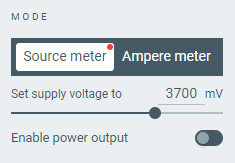
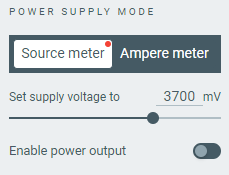
v4.0.0 release test updates

diff --git a/src/components/SidePanel/Instructions.tsx b/src/components/SidePanel/Instructions.tsx
@@ -14,7 +14,7 @@ import {
 
 const urls = {
     ppk2UserGuide:
-        'https://infocenter.nordicsemi.com/topic/ug_ppk2/UG/ppk/PPK_user_guide_Intro.html',
+        'https://docs.nordicsemi.com/bundle/ug_ppk2/page/UG/ppk/PPK_user_guide_Intro.html',
     purchase:
         'https://www.nordicsemi.com/About-us/BuyOnline?search_token=nRF-PPK2',
 };
@@ -22,7 +22,7 @@ const urls = {
 export default () => (
     <Group heading="Instructions">
         <p>
-            The Power Profiler Kit (PPK) is an affordable, flexible tool that
+            The Power Profiler Kit II (PPK2) is an affordable, flexible tool that
             measures real-time power consumption of your designs.
         </p>
         <p>

diff --git a/doc/docs/overview.md b/doc/docs/overview.md
@@ -16,7 +16,13 @@ You can access the following options by selecting the arrow under the device nam
 
 ## Device panel sections
 
-Before you select a device, this section lets you only **Load** a `.ppk2` or a `.ppk` power profiler file.
+Before you select a device, you can only load a power profiler file, open a link to an online purchase page, check documentation, or configure temporary disk data.
+
+More options become available after selecting a device. Some options are specific to the chosen sampling mode.
+
+### Load
+
+The **Load** button lets you open a `.ppk2` or a `.ppk` power profiler file.
 
 !!! note "Note"
       Loading a `.ppk` file will automatically convert it to a `.ppk2` file.
@@ -24,20 +30,18 @@ Before you select a device, this section lets you only **Load** a `.ppk2` or a `
 
       Support for converting `.ppk` files will be removed in the future.
 
-More options become available after selecting a device. Some options are specific to the chosen sampling mode.
+### Temp disk
 
-### Session data
+![Temp disk data controls](./screenshots/ppk2_temp_disk_data.png "Temp disk data controls")
 
-![Session data controls](./screenshots/ppk2_advanced_session_data.png "Session data controls")
-
-These options only appear before selecting device and for the **Data logger** sampling mode.
+These options only appear before selecting the device and for the **Data logger** sampling mode.
 
 Here you can set the root directory where the sampling file will be saved by default and define how much hard drive space you want to keep free when you start sampling.
 The sampling will automatically stop when the hard drive has less than the defined amount.
 
-### Mode
+### Power supply mode
 
-![Mode options in the Device panel](./screenshots/ppk2_device_panel_mode.png "Mode options in the Device panel")
+![Power supply mode options in the Device panel](./screenshots/ppk2_device_panel_mode.png "Power supply mode options in the Device panel")
 
 Here you can select one of the power supply modes for the PPK2, depending on your hardware setup:
 
@@ -52,10 +56,9 @@ Both modes let you **Enable power output** on or off, which turns DUT on or off.
 
 Here you can select the sampling parameters. The parameters are different depending on the sampling mode.
 
-This is also where you can **Start** sampling and select the amount of samples per second that will be recorded.
-The slider lets you select different values up to 100 000 samples per second (100 kHz).
+This is also where you can **Start** sampling.
 
-![Start and sampling value slider](./screenshots/ppk2_device_panel_sampling_start.PNG "Start and sampling value slider")
+![Start button](./screenshots/ppk2_device_panel_sampling_start.PNG "Start button")
 
 After sampling starts, the **Start** button changes to **Stop**.
 Before you can start sampling again, [**Save/Export**](#other-options) the session data or take a [**Screenshot**](#other-options)
@@ -65,20 +68,23 @@ If you don't, you will be prompted about saving any unsaved sampling data before
 
 ![Sampling parameters for Data logger](./screenshots/ppk2_device_panel_sampling_live.png "Sampling parameters for Data logger")
 
-When sampling in the **Data logger** mode, the sampling lasts by default from the moment in which you click **Start** to the moment the **Auto stop sampling** sample time value is reached.
+When sampling in the **Data logger** mode, you can select the amount of samples per second that will be recorded.
+The slider lets you select different values up to 100 000 samples per second (100 kHz).
+You can also specify how long the sampling is supposed to last.
+
+After pressing **Start**, the sampling lasts to the moment the sampling time value is reached.
 If you disable **Auto stop sampling**, the sampling will last until you **Stop** it.
 
 Based on the chosen options, the Power Profiler application estimates the disk space usage.
 
-#### Real time parameters
+#### Scope parameters
 
-![Sampling parameters for Real time](./screenshots/ppk2_device_panel_sampling_trigger.png "Sampling parameters for Real time")
+![Sampling parameters for Scope](./screenshots/ppk2_device_panel_sampling_trigger.png "Sampling parameters for Scope")
 
-When sampling in the **Real time** mode, the sampling starts only when the specified **Length** and **Level** values are reached.
-
+When sampling in the **Scope** mode, the sampling starts only when the specified **Length** and **Level** values are reached.
 The sampling always happens at 100 000 samples per second (100 kHz).
 
-The following table lists all available Real time parameters.
+The following table lists all available Scope parameters.
 
 | Option                            | Description                                                                                          |
 |-----------------------------------|------------------------------------------------------------------------------------------------------|
@@ -96,6 +102,7 @@ The following table lists the available display options.
 | **Timestamps**                    | Show or hide the timestamps at the bottom of the sampling chart.                                     |
 | **Relative** and **Absolute**     | Select how the time value of the **Timestamps** is to be displayed: relative to the start of the sampling or using machine time (UTC, adjusted per time zone of the machine settings).<br/><br/>If you [**Load**](#device-panel-sections) an old `.ppk` file, the timestamp value will not be shown because of the lack of metadata.         |
 | **Digital channels**              | Show or hide the [digital channels](#digital-channels) under the sampling chart.                     |
+| **Show Minimap**                  | Toggle to show or hide the navigable minimap under the **Data logger**'s chart. You can use the minimap to inspect the logged sampling results. |
 
 ### Other options
 
@@ -103,23 +110,50 @@ The following options are only available when you log sampling data.
 
 | Option                            | Description                                                                                          |
 |-----------------------------------|------------------------------------------------------------------------------------------------------|
-| **Show Minimap**                  | Toggle to show or hide the navigable minimap under the **Data logger**'s chart. You can use the minimap to inspect the logged sampling results. |
 | **Save/Export**                   | Available only after sampling is stopped. Saves the results of the data sampling to a `.ppk2` file, which you can [**Load**](#device-panel-sections) in a new session of nRF Connect Power Profiler. |
-| **Screenshot**                    | Saves the current data from either the **Data logger** or the **Real time** view as a PNG image.                                          |
+| **Screenshot**                    | Saves the current data from either the **Data logger** or the **Scope** view as a PNG image.                                          |
+
+### Advanced configuration
+
+The advanced configuration panel gives you access to filter tuning and lets you adjust gains for all individual ranges.
+
+#### Gains
+
+![Advanced configuration for gains](./screenshots/ppk2_advanced_gains.PNG "Advanced controls for gains")
+
+If any of the ranges (see [Measurement resolution](https://docs.nordicsemi.com/bundle/ug_ppk2/page/UG/ppk/ppk_measure_resolution.html#ppk_measure_resolution__table_b3l_3ty_bdb)) has an offset, use these configuration options to add a positive or negative gain to the calculated measurement values.
+
+#### Spike filter
+
+![Advanced configuration for spike filter](./screenshots/ppk2_advanced_spike.PNG "Advanced controls for spike filter")
+
+Whenever a dynamic range switching occurs, induced inductance may cause the first samples to be higher than the actual value.
+
+Use the sliders to set the following:
+
+- Samples to smooth - The number of samples after a dynamic range switch to apply the filer.
+- Coefficient for range 1–4 - The magnitude of the spike filter for range 1–4. The higher the value, the more filtering will be applied.
+- Coefficient for range 5 - The magnitude of the spike filter for range 5. The higher the value, the more filtering will be applied.
+
+#### Voltage limit
+
+![Advanced configuration for voltage limit](./screenshots/ppk2_advanced_voltage.PNG "Advanced controls for voltage limit")
+
+Use this control to set the voltage limit for the measurement.
 
 ## Sampling tabs
 
-nRF Connect Power Profiler comes with two sampling modes: **Data logger** and **Real time**.
+nRF Connect Power Profiler comes with two sampling modes: **Data logger** and **Scope**.
 
 - The **Data logger** sampling mode lets you examine the power continuously over a period of time.
   It has its own [sampling parameters](#data-logger-parameters) and lets you use the **Live Now** toggle to jump back to displaying the live measurement.
 
     ![Data logger mode at work](./screenshots/ppk2_logger_tab.PNG "Data logger mode at work")
 
-- The **Real time** sampling mode lets you sample only when the values specified for the **Length** and **Level** [sampling parameters](#real-time-parameters) have been reached.
+- The **Scope** sampling mode lets you sample only when the values specified for the **Length** and **Level** [sampling parameters](#real-time-parameters) have been reached.
   You can use the blue slider on the Y-axis to dynamically select the value of the **Level** parameter.
 
-    ![Real time mode at work](./screenshots/ppk2_realtime_tab.PNG "Real time mode at work")
+    ![Scope mode at work](./screenshots/ppk2_scope_tab.PNG "Scope mode at work")
 
 Both modes have their own [sampling parameters](#sampling-parameters), but share most of the sampling chart UI, explained in the following sections.
 
@@ -175,33 +209,7 @@ The digital signals are visible in the charting section below the current measur
 
 The digital signals are connected to the PPK2's Logic port as described in [Logic port](https://docs.nordicsemi.com/bundle/ug_ppk2/page/UG/ppk/logic_port.html). To view the digital values, enable digital channels and zoom in on the main chart until the values are visible.
 
-### Advanced controls
-
-The advanced control panel gives you access to filter tuning and lets you adjust gains for all individual ranges.
-
-#### Gains
-
-![Advanced controls for gains](./screenshots/ppk2_advanced_gains.PNG "Advanced controls for gains")
-
-If any of the ranges (see [Measurement resolution](https://docs.nordicsemi.com/bundle/ug_ppk2/page/UG/ppk/ppk_measure_resolution.html#ppk_measure_resolution__table_b3l_3ty_bdb)) has an offset, use these controls to add a positive or negative gain to the calculated measurement values.
-
-#### Spike filter
-
-![Advanced controls for spike filter](./screenshots/ppk2_advanced_spike.PNG "Advanced controls for spike filter")
-
-Whenever a dynamic range switching occurs, induced inductance may cause the first samples to be higher than the actual value.
-
-Use the sliders to set the following:
-
-- Samples to smooth - The number of samples after a dynamic range switch to apply the filer.
-- Coefficient for range 1–4 - The magnitude of the spike filter for range 1–4. The higher the value, the more filtering will be applied.
-- Coefficient for range 5 - The magnitude of the spike filter for range 5. The higher the value, the more filtering will be applied.
-
-#### Voltage limit
-
-![Advanced controls for voltage limit](./screenshots/ppk2_advanced_voltage.PNG "Advanced controls for voltage limit")
-
-Use this control to set the voltage limit for the measurement.
+To select which digital channels you see, use the **Digital channels** menu in [**Display options**](#display-options).
 
 ## Feedback tab
 

diff --git a/doc/docs/revision_history.md b/doc/docs/revision_history.md
@@ -2,6 +2,7 @@
 
 | Date       | Description                                                                                          |
 |------------|------------------------------------------------------------------------------------------------------|
+| 2024-03-05 | Updated the documentation for the nRF Connect Power Profiler [v4.0.0](https://github.com/NordicSemiconductor/pc-nrfconnect-ppk/blob/main/Changelog.md).    |
 | 2024-02-07 | Separated the application documentation from the [PPK2 hardware documentation](https://docs.nordicsemi.com/bundle/ug_ppk2/page/UG/ppk/PPK_user_guide_Intro.html).    |
 | 2022-08-16 | Updated the following topics based on nRF9160 DK v0.9.0 or later:</br></br>- Quick start</br></br>- [Measuring current in Source Meter mode](https://docs.nordicsemi.com/bundle/ug_ppk2/page/UG/ppk/measure_current_source_meter.html)</br></br>- [Measuring current in Ampere Meter mode](https://docs.nordicsemi.com/bundle/ug_ppk2/page/UG/ppk/measure_current_ampere_meter.html) |
 | 2021-11-01 | - Updated [Measuring current in Ampere Meter mode](https://docs.nordicsemi.com/bundle/ug_ppk2/page/UG/ppk/measure_current_ampere_meter.html)</br></br>- Editorial changes     |

diff --git a/doc/docs/using_ppk_app.md b/doc/docs/using_ppk_app.md
@@ -10,7 +10,7 @@ The Power Profiler Kit II (PPK2) must be connected to your computer and powered 
 1. Click **Select Device** (in the top left corner) and select the PPK2 from the list.</br>
    The Power Profiler app checks if the PPK2 has the required firmware and shows a firmware upgrade dialog if needed.
 1. In the device panel's **Mode**, select [**Source meter**](./overview.md#mode) or [**Ampere meter**](./overview.md#mode).
-1. Select the [**Data logger**](./overview.md#sampling-tabs) or [**Real time**](./overview.md#sampling-tabs) mode.
+1. Select the [**Data logger**](./overview.md#sampling-tabs) or [**Scope**](./overview.md#sampling-tabs) mode.
 1. Set the desired [**Sampling parameters**](./overview.md#sampling-parameters).
 1. Click **Start** to start sampling.
 1. Toggle **Enable power output** to enable power to the DUT.
